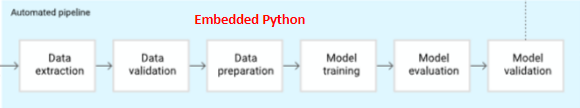
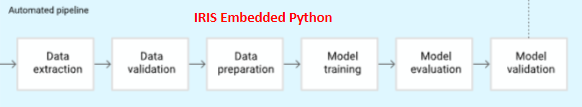
documentation

diff --git a/README.md b/README.md
@@ -1,26 +1,84 @@
-# Continuous Training (CT) in IRIS
+# Continuous Training (CT) pipeline in IRIS and MLflow
 
-This repo contains a solid base for Machine Learning Pipeline Automation as part of a proper MLOps (as the Google's standard defined in https://docs.cloud.google.com/architecture/mlops-continuous-delivery-and-automation-pipelines-in-machine-learning?hl=en) using the IRIS native components shown in the following graph:
+This is an integration of IRIS and the Open Source AI engineering platform MLflow acting as complementaty tools for a Continuous Training (CT) pipeline. For context, a CT pipeline is the formalization of a Machine Learning (ML) model developed through data science experimentations on the data available at the time, to be ready for deployment and autonomous updating with new data and appropriate performance monitoring.
+
+This is a formal implementation of the CT pipeline for a toy example, you just manually draw some points and a linear regression is fit to predict new points (for "x", model predicts "y"). This will allow to test automatic execution of model drgradation and retraining of the model when you decide to change how you draw this points (slope, offset, dispersion, etc).
+
+![alt text](images/points1.png)
+![alt text](images/points2.png)
+
+## Test The whole thing just by:
 
 
-![alt text](images/MLOps_IRIS_level1.png)
-
-In a nutshell this repo proposes MLflow for the Data Science experimentation phase (upper section), running locally (server can be later deployed for team working) using MLflow, and the rest of CT's automated pipeline using native IRIS tools. Below we explain the most relevant bits of how these components work and how to test them.
-
-
-The only configuration needed was designed by only running
+Building IRIS+MLflow instances
 
 ```
 docker-compose up --build -d
 ```
 
-The Docker Compose setup creates:
+Play with the jupyter notebook in
+```
+dur\tests\CT_Pipeline_testing.ipynb
 
-An IRIS container responsible for data management and application processes. A separate MLflow stack (MLflow server, Postgres, and MinIO) dedicated to experiment tracking and UI-based monitoring for Data Science projects.All MLflow-related state (metadata and artifacts such as models and metrics) is stored in the durable host-mounted directory dur/sandbox/mlflow.,Because this directory resides in the host filesystem and is bind-mounted, its contents persist across container restarts and are accessible outside the containers.
+note: in order for the widget to daw points to work, befor running following cells, click outside of the widget, and then draw one last point inside the widget.
+```
+
+See logged metrics and model registry in
+
+```
+http://localhost:5000/#/experiments
+```
+
+Access IRIS Management Portal in
+```
+http://localhost:52773/csp/sys/%25CSP.Portal.Home.zen
+username: superuser
+password: SYS
+```
+
+See all the logging exclusive to the pipeline in
+```
+dur\log\MLpipelineLogs.log
+```
+
+TODO: video showing how to execute.
+
+## CT Pipeline Components
+
+
+The theory behind the modules of this CT pipeline is based on the industry standard for MLOps level 1 defined by Google in https://docs.cloud.google.com/architecture/mlops-continuous-delivery-and-automation-pipelines-in-machine-learning?hl=en, and the implementation of each of its components leverages the best features of both IRIS and MLflow, highlighted in red as seen in the image below:
+
+![alt text](images/MLOps_IRIS_level1.png)
+ 
+For those new to CT pipelines, the image above describes how a traditional experimentation phase of a Data Science project (upper section "experimentation/development/test"), usually done on jupyter notebooks, is transformed into a production grade deployment of the developed model  that allows for a continuous monitoring of its performance in time, and automatic retraining whenever the performance of the model degrades in time. All this with the appropriate registry of model versioning and logging for auditing purposes.
+
+We will delve in to the details later, but for early understanding of each of the components, we will start by briefly defining what each of these do, and how that related to the IRIS/MLflow tool chosen for that purpose.
+
+- Feature Store: Is the single source of truth for sourcing the data, and where every constant parameter or definition related to the data itself is defined, which might vary across clients and use cases. (e.g. each client might define readmission after 15, or 30 or else days. Late arrival to an appointment might be considered arriving after 5, 10, or else minutes). IRIS SQL Tables' multidimensional globals allows high-speed storage and stored computed properties eases the definition of custom properties along with the raw data itself.
+
+- Automated Pipeline: Is the formalized and clearly modularized version of the "Orchestrated experiment" that's usually done in a jupyter notebook, that is prepared to be executed everytime the model has to be retrained if required. It contains every process on the data and for model training that is done in order to get the model with best performance overall. In this section every constant related to the model itself chosen during the experimentation phase (previously done by data scientists in jupyter notebooks) is defined (e.g. Seed, test size, K-folds for validation, etc). In our implementation, we leverage embedded python to easily access IRIS classes directly, along with all the required standard Machine Learning python libraries (PAndas, Sklearn, MLflow, etc).
+
+- Model Registry: During Training, each model that is trained is logged into the MLflow's backend registry, automatically configured when building the project. We can at any moment re-download models from there and query performance of previous models.
+
+- Trained Model: Though MLflow backend has an Artifact Store where the weights of all the model's trained are stored, this project additionaly saves the pickle file directly into a persistent location (Docker volume) for quickly loading when needed. In case these are deleted, they are downloaded and re-saved in the same location from the MLflow Artifact Store.
+
+- Model Serving: This block is in charge of managing the model that is served to production. We store the path to the model's pickle file to be used in production into a IRIS global, which is what gets updated whenever necessary. In this repo we directly promote the new model if it performs better than the previous one, but in a real scenario, this might require human approval. We decided to store the path to the model in a global and not the model itself because doing that would imply additional processing time for serialization and deserialization of the python object, whereas text is faster and straightforward to read from a global regarless of classes in the whole repository, making it easy and fast to read anywhere.
+
+- Prediction Service: Is the actual service than a client would use to request inferences on the current model set in production. At the moment this repo uses an embedded python method for this, but for this block, this can be potentially improved by transforming the model into PMML format to make the production service executable using Integrated ML for any SKlean models, or any python model like LightGBM uwing the upcoming IntegratedML custom models in IRIS 2026.1.
+
+- Performance Monitoring: Is any sort of monitoring that can be made implemented to keep track of the performance of the current model in production, along with previous ones if necessary. For this we leverage MLflow's UI, where we can make custom plots with any of the variables logged, datetime, performance metrics, both for each model and for all models historically trained.
+
+- Trigger: Is whatever activates the execution of the Automated Pipeline. When data drift is identified, model degrades until certain theshold, on availability on a certain amount of new data with enough ground truth, or simple scheduled every certain time. In this project we directly compare to a defined threshold of the R² metric, so every time performance falls below the value in MLpipeline.PerformanceMonitoring.R2THRESHOLD, we directly execute the automated pipeline. For this task, another valid approach would be use the task manager to schedule a method that looks at the performance registered during the perfrmance monitoring on MLflow tracking, and decide whether to retrain a new model.
 
 
 
-WARNING: a .env is in this project uploaded for testing purposes, but it should be added to the .gitignore to avoid sharing credentials in a production environment
+## Docker Details
+
+### docker-compose.yml
+
+has service for iris, and the backend that mlflow needs for model registry and performance tracking (MLflow server, Postgres, and MinIO).All MLflow-related state (metadata and artifacts such as models and metrics) is stored in the durable host-mounted directory dur/sandbox/mlflow.,Because this directory resides in the host filesystem and is bind-mounted, its contents persist across container restarts and are accessible outside the containers.
+
+WARNING: a .env is in this project uploaded for testing purposes, but it should be added to the .gitignore to avoid sharing credentials in a real production environment
 
 If during build, any of the container components for mlflow fail, retry commenting out all services except "iris" to create only the iris container through "docker-compose up --build -d" and manually start server (http://localhost:5000) in the desired folder by running 
 
@@ -29,6 +87,15 @@ mlflow server --port 5000
 ```
 
 then you can Open http://localhost:5000 in your browser to view the UI.
+
+### dockerfile
+
+contains image requirements for IRIS with any needed configurations for Data Science projects (borrowed from https://github.com/JorgeIvanJH/IRIS-dockerization-for-Data-Science) for embedded python
+
+### iris_autoconf.sh
+
+Contains all iris terminal comands to be executed after the container is up and running. This imports  objectscript packages, defines default username (SuperUser) and password (SYS) avoiding default password changing, populates initial tables, trains first model, deplots first model to production, makes first monitoring, and sets up structured logging to save logs related to this project to the persistent storage in dur\log\MLpipelineLogs.log
+
 
 ## Experimentation framework (MLflow Tracking)
 
@@ -103,54 +170,79 @@ This logging system is used throughout the whole pipeline for auditing purposes,
 
 ## Feature Store
 
-All data for experimentation and for the CT pipeline is extracted from here.
+![alt text](images/Feature_Store.png)
 
-Feature store is the single source of data and where every constant Parameter for the project is defined (e.g. each cliend might define readmission after 15, 30 or more days. Late arrival might be consideret arriving after 5, 10, or 20 minutes). These definitions are only related to the data itself, no hyperparameters are defined here, as they relate to the ML pipeline
+Implemented in MLpipeline\FeatureStore.cls, there we define as Parameters of the MLpipeline.FeatureStor class any constant pertinent to the data itself to be easily referenced, and also the methods to upload and query all the tables required for the project. 
+
+The MLpipeline.PointSample and MLpipeline.Predictions persistent classes point to the IRIS tables storing the raw data, and relevant metadata about the predictions done by the model
+
 
 In this repo we include the required methods for querying from DB, and Parameterts (unchangeable at runtime) are set in stone here.
 
 ## Automated Pipeline
 
-The automated pipeline is the formal implementation of the data processing and model training performed during experimentation. This block consists of modular and clearly defined steps executed sequentially, implemented in the AutomatedPipeline class within the MLpipeline package — one method per step, all orchestrated by RunPipeline. These steps are described in detail below:
-
 ![alt text](images/Automated_Pipeline.png)
 
-1) Data Extraction:
-Leverages the FeatureStore to query the PointSamples table filtered by a datetime threshold using IRIS SQL, and converts the resulting %SYS.Python.SQLResultSet into a pandas DataFrame.
- - In: datetime filter string
- - Process: SQL query via FeatureStore
- - Out: DataFrame
+Implemented in MLpipeline\AutomatedPipeline.cls, there we define as Parameters of the MLpipeline.FeatureStor class any constant pertinent to the model itself to be easily referenced, and also one method for each of the components that it involves, that are executed through the RunPipeline method in the same class. These steps are described in detail below:
 
-2) Data Validation:
-Inspects the DataFrame for data quality issues and logs warnings to the IRIS console: missing values, missing essential columns (x, y), incorrect data types, and IQR-based outlier detection. The DataFrame is passed through unchanged.
+1) ```Method DataExtraction(datetimestr As %String)```:
+Leverages the FeatureStore to query the PointSamples table filtered by a takins all samples a certain datetime threshold using IRIS SQL, and converts the resulting %SYS.Python.SQLResultSet into a pandas DataFrame.
+ - In: datetime filter string
+ - Process: SQL query via FeatureStore's ```Method DataExtraction```
+ - Out: Pandas DataFrame
+
+2) ```Method DataValidation(df As %SYS.Python)```:
+Inspects the DataFrame for data quality issues and logs warnings to the IRIS console: missing values, missing essential columns, incorrect data types, and IQR-based outlier detection. The DataFrame is passed through unchanged.
  - In: DataFrame
  - Process: Missing values, column, type and outlier checks
  - Out: DataFrame
 
-3) Data Preparation:
-Applies any non-learned transformations (renames, type casting — no .fit() calls), then splits the data into train and test sets using train_test_split with configurable TESTSIZE and SEED.
+3) ```Method DataPreparation(df As %SYS.Python)```:
+Applies any transformations needed on the data, but only those that do not require any sort of model fitting (no .fit() calls such as scaling, or value inputting), such as renaming, or type casting. Then splits the data into train and test sets using train_test_split with the TESTSIZE and SEED paremeters of the same class defined when it is instantiated.
  - In: DataFrame
  - Process: Non-learned transforms + train/test split
  - Out: Xtrain, Ytrain, Xtest, Ytest
 
-4) Model Training:
-Builds a sklearn Pipeline with StandardScaler and LinearRegression, trains it on the training split, and logs the run to MLflow via autolog. Saves model artifacts to MODELSPATH, logs train_mae and train_r2, and tags the run with TrainingStatus: OK.
- - In: Xtrain, Ytrain, model params
+4) ```Method ModelTraining(Xtrain As %SYS.Python, Ytrain As %SYS.Python, params As %DynamicObject = "")```:
+Contains all the trainable steps to be fitted in order to train using only the training batch extracted during the data preparation to avoid data leakage misleading effects. Here we do include every process that requires fitting such as value inputting or normalization. For the purposes of this toy example we only considered using sklearn's StandardScaler and LinearRegression. The training metrics achieved are logged to the current MLflow run ID, and the weights of the model are locally saved to the path defined in the parameter "MODELSPATH" of the same class for quick future loading (though the models can be re downloaded from MLflow anytime that's needed, but that takes some time loading).
+ - In: Xtrain, Ytrain, model parameters
  - Process: sklearn Pipeline fit + MLflow logging
  - Out: trained model
 
-5) Model Evaluation:
-Runs inference on the test split and logs val_mae and val_r2 to the same MLflow run. Tags the run with EvaluationStatus: OK and returns the metrics dictionary.
+5) ```Method ModelEvaluation(model As %SYS.Python, Xtest As %SYS.Python, Ytest As %SYS.Python)```:
+Runs inference on the test split and logs the metrics achieved on the validation dataset over the same MLflow run. This method also has included methods to compute and store in MLflow custom metrics and plots. The metrics with the validation split are returned in the form of a dictionary. 
  - In: trained model, Xtest, Ytest
- - Process: inference + metric computation
+ - Process: inference on test splits + MLflow logging
  - Out: metrics dict
 
-6) Model Validation:
-Queries MLflow for the most recent prior run tagged with both TrainingStatus: OK and EvaluationStatus: OK, re-evaluates that model on the current test set for a fair comparison, and returns the run_id of the best performing model based on MAE and R2.
-
- - In: new model metrics, Xtest, Ytest
- - Process: load previous model + re-evaluate on current test set
+6) ```Method ModelValidation(newmodelmetrics As %SYS.Python, result As %SYS.Python, plotComparison As %Boolean = 1)```:
+Fetches the current model deployed in production and compares its performance to the same test set used to evaluate the newly trained model. Then returns the MLflow run id according to the model with the best performance metrics. In this case only R² and MAE are considered. Draws a plot comparing inference of both models
+ - In: new model metrics, result
+ - Process: Compares performance between new and on-production models, draws inference plots.
  - Out: run_id of best model
+
+## Model Serving
+
+![alt text](images\Model_Serving.png)
+
+Implemented in MLpipeline\ModelServing.cls, there we have methods to promote the model to production, according to the MLflow run id with the best performance on the selected metrics. The promotion is done by overwriting the path to the weights of the model that is stored on the global ```^ML.Config("ModelPath")```
+
+
+## Prediction Service
+
+![alt text](images\Prediction_Service.png)
+
+Implemented in MLpipeline\PredictionService.cls, the Predict method takes in any filters for which a prediction want's to me made with the current model in production. This filters are used to extract the values from database, and over which the prediction is done. The resulting prediction, along with other metedata of interest (modelrunid, inference time, datetime of inference) is stored in a table containing all this information for each of the points in the raw data table to which it is connected using foreign keys.
+
+## Performance Monitoring and Trigger
+
+![alt text](images\Performance_Monitoring.png)
+![alt text](images\Trigger.png)
+
+Implemented in MLpipeline\PerformanceMonitoring.cls, there we query both the source data tables and the predictions tables, we filter the source rows that have ground truth in it, and use it along with the predictions made by the model to compute performance metrics that we log directly to a separate Experiment exclusively for live monitoring in MLflow. the ```Trigger(r2 as %Numeric)``` method is what directly executed the automated pipeline whe the performance of the model falls below a predefined threshold.
+
+
+
 
 
 
@@ -159,6 +251,8 @@ Automatic Pipeline Flow:
 
 
 Trigger: Manual (can be on new data, or on a schedule, or on model degradation, etc)
+
+TODO: Improve docstring as writing documentation
 
 
 docker exec -it iris-experimentation iris terminal iris
